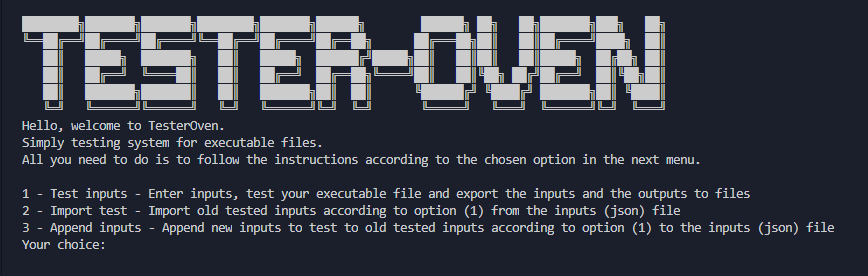
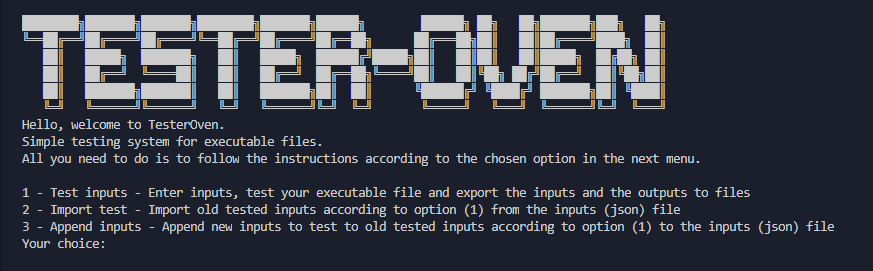
README and menu update.

Changed region(s): [[0.0, 0.0295, 0.8088, 0.6199], [0.0, 0.679, 0.9643, 0.9151], [0.4977, 0.0295, 0.5288, 0.059]]

diff --git a/CliHandler.py b/CliHandler.py
@@ -11,7 +11,7 @@ TESTER_OVEN = """
 class CliAppHandler:
     def __init__(self) -> None:
         print(TESTER_OVEN)
-        print("Hello, welcome to TesterOven. \nSimply testing system for executable files.")
+        print("Hello, welcome to TesterOven. \nSimple testing system for executable files.")
         print("All you need to do is to follow the instructions according to the chosen option in the next menu.")
 
     def get_inputs(self) -> list:

diff --git a/README.md b/README.md
@@ -15,7 +15,7 @@ Menu image:
 
 ## Usage (Windows)
 
-Turning on the server:
+Python must be installed
 ```
 python TesterOven.py
 ....
@@ -23,4 +23,4 @@ python TesterOven.py
 
 ## Etc.
 
-I made this project in 4 hours and it was kinda fun, I made this cause i wanted to develop cool project and I saw need to this tool.
+I made this project in 4 hours and it was kinda fun, I made this cause I wanted to develop a cool project and I saw need to this tool.
